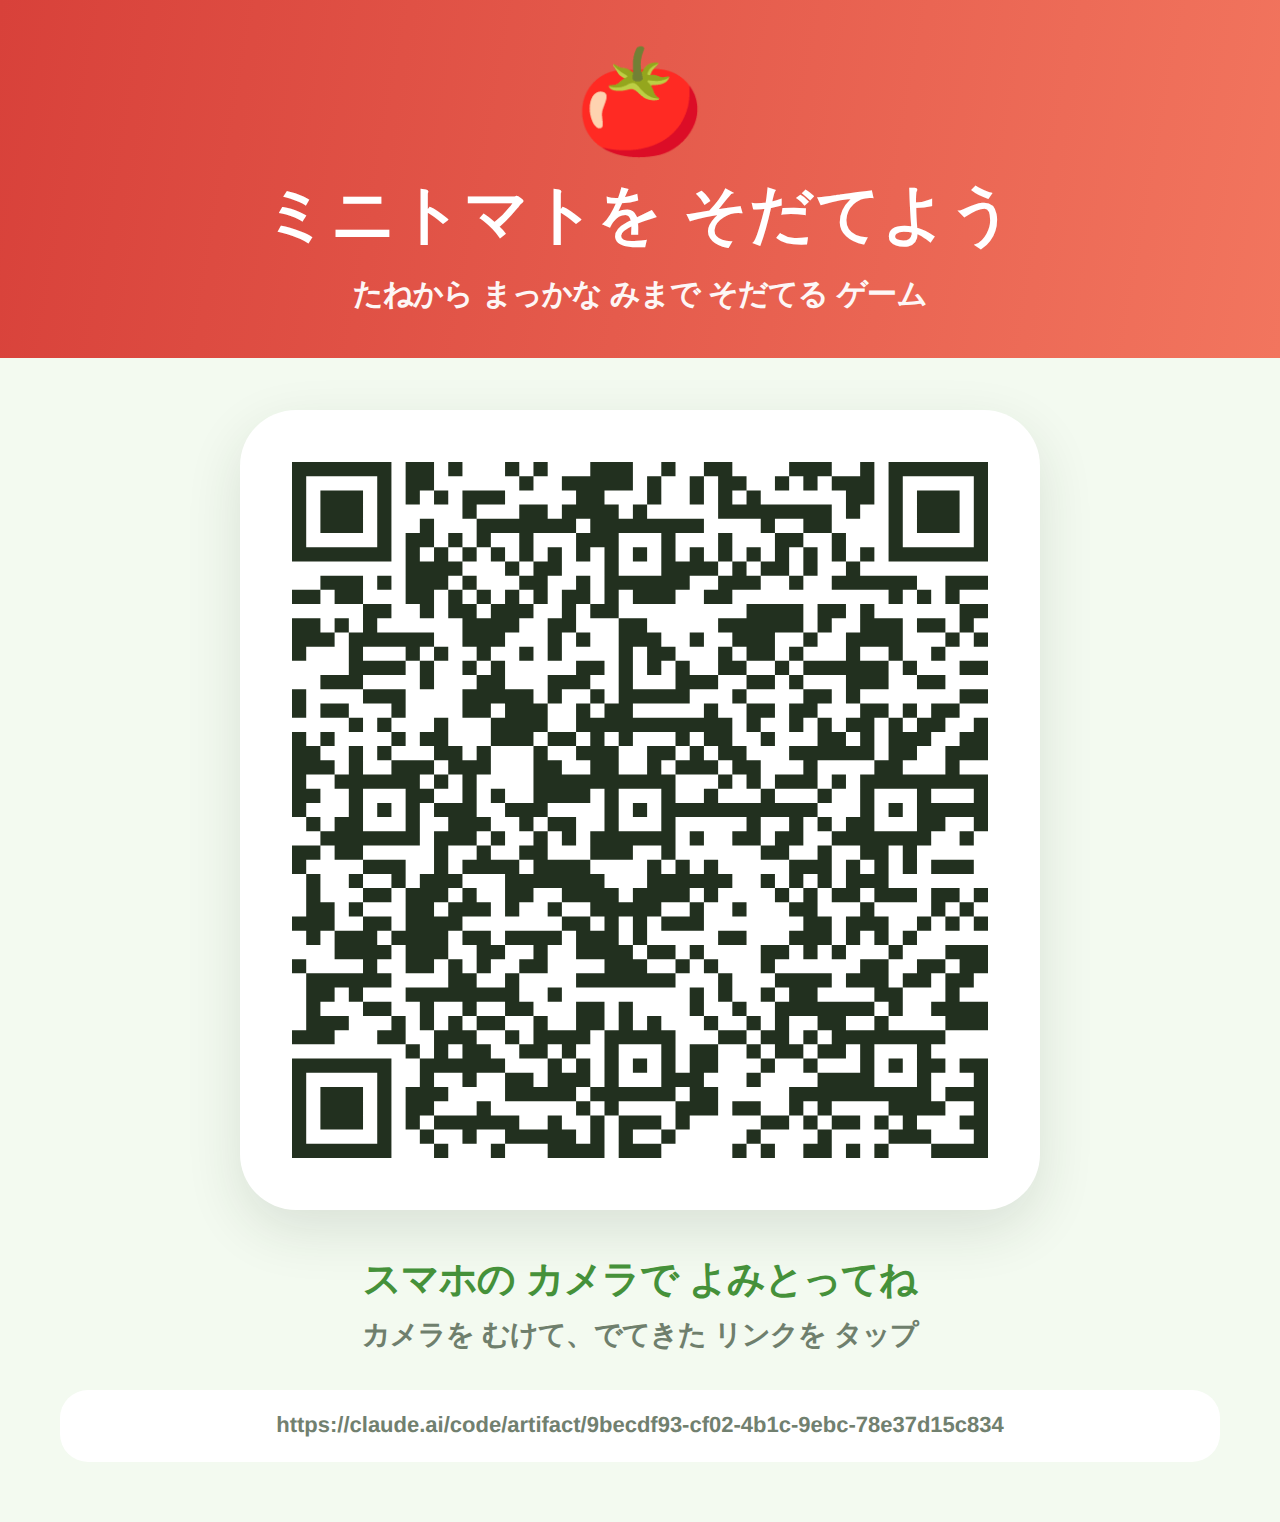
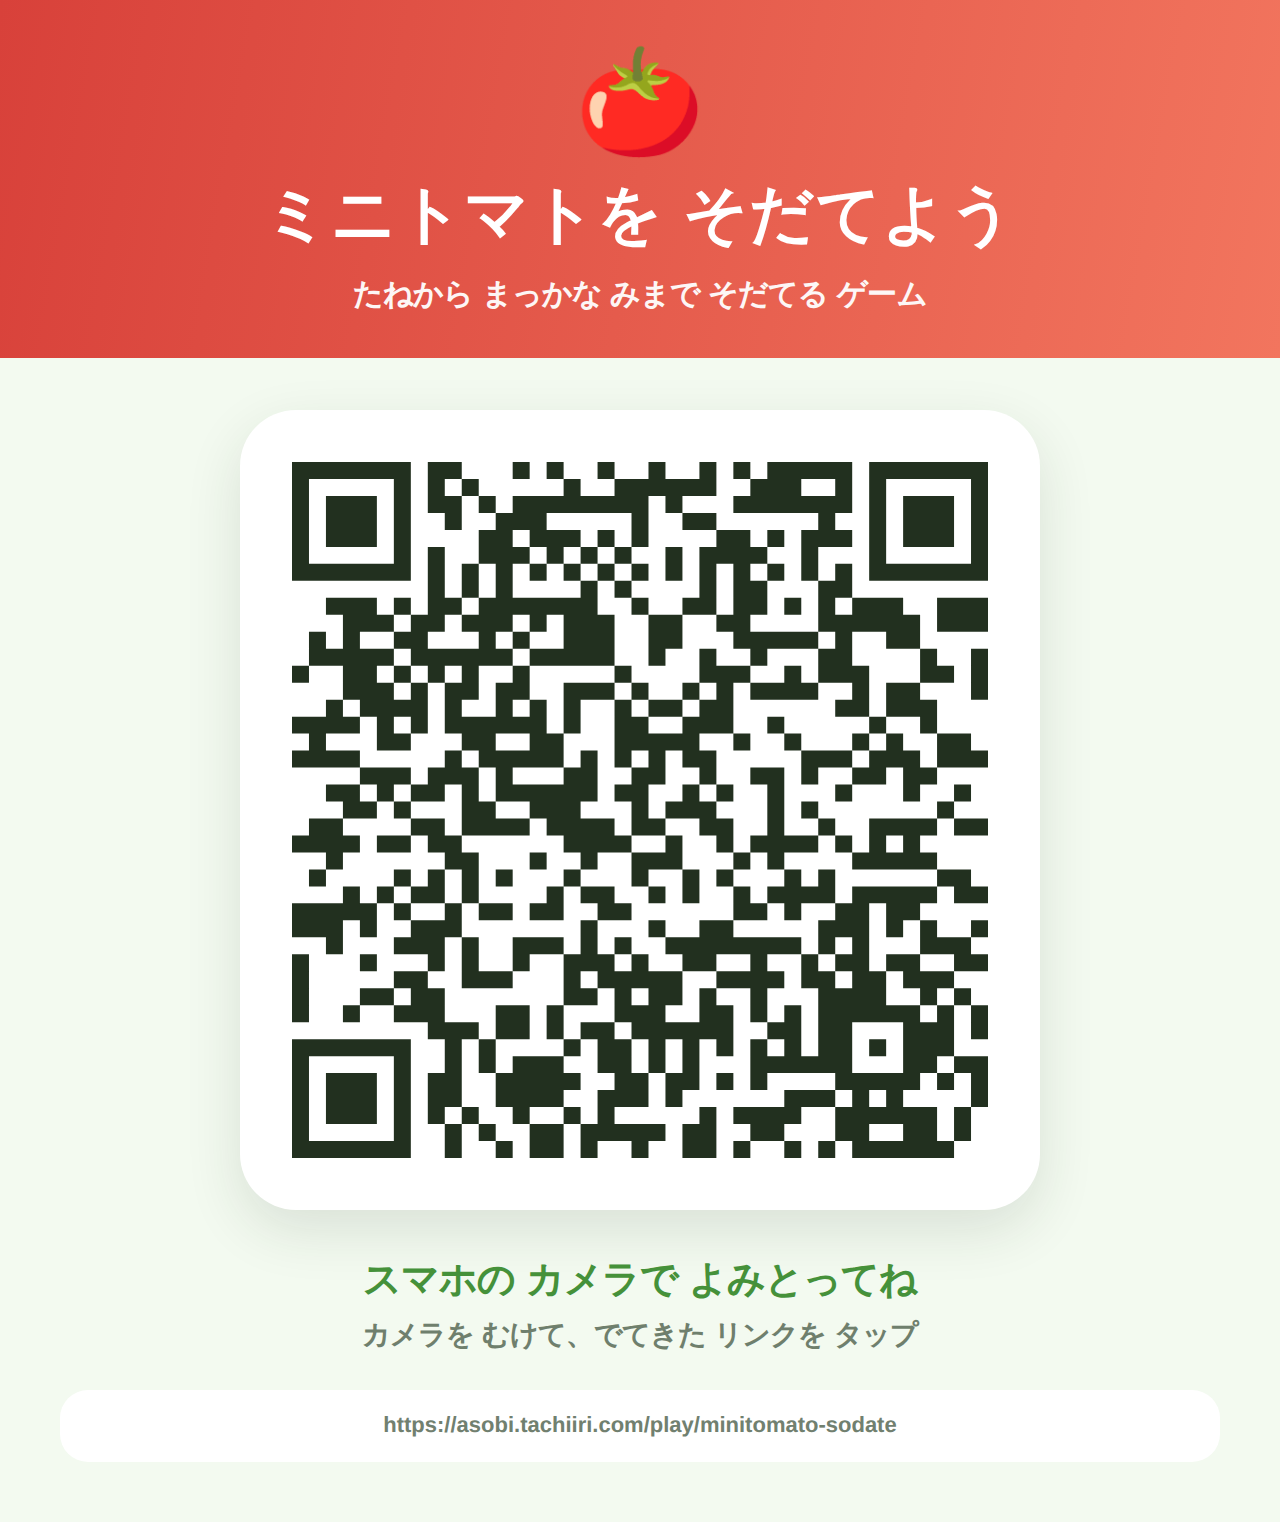
🔧 QR の さきを あそびばの ゲームの ページに なおした
まえの QR は アーティファクトの URL を さして いたが、あそびばに
おいて ある ゲームの ページが ただしい さき だった。

  https://asobi.tachiiri.com/play/minitomato-sodate

つくりなおした あと、がぞうを じっさいに よみとって URL が
いっちする ことを たしかめた。

Claude-Session: https://claude.ai/code/session_019K8BL6Seh4N854PGnECjCW

Changed region(s): [[0.2188, 0.2779, 0.7812, 0.772], [0.2188, 0.9264, 0.7812, 0.9573]]

diff --git a/qr/minitomato-qr-card.html b/qr/minitomato-qr-card.html
@@ -23,7 +23,7 @@
     <h1>ミニトマトを そだてよう</h1>
     <p>たねから まっかな みまで そだてる ゲーム</p>
   </div>
-  <div class="qrbox"><svg viewBox="0 0 490 490" class="segno"><path transform="scale(10)" class="qrline" stroke="#22301f" d="M0 0.5h7m1 0h2m1 0h1m3 0h1m1 0h1m3 0h3m2 0h1m2 0h2m4 0h3m2 0h1m1 0h7m-49 1h1m5 0h1m1 0h2m6 0h1m2 0h5m1 0h1m2 0h1m1 0h2m2 0h1m1 0h1m1 0h3m1 0h1m5 0h1m-49 1h1m1 0h3m1 0h1m1 0h1m1 0h1m1 0h3m5 0h2m3 0h1m2 0h1m1 0h1m1 0h1m6 0h2m1 0h1m1 0h3m1 0h1m-49 1h1m1 0h3m1 0h1m5 0h1m3 0h2m1 0h4m1 0h1m5 0h8m1 0h1m2 0h1m1 0h3m1 0h1m-49 1h1m1 0h3m1 0h1m2 0h1m3 0h7m1 0h8m4 0h1m2 0h2m4 0h1m1 0h3m1 0h1m-49 1h1m5 0h1m1 0h2m1 0h1m1 0h1m2 0h1m3 0h3m3 0h1m3 0h1m3 0h2m2 0h1m3 0h1m5 0h1m-49 1h7m1 0h1m1 0h1m1 0h1m1 0h1m1 0h1m1 0h1m1 0h1m1 0h1m1 0h1m1 0h1m1 0h1m1 0h1m1 0h1m1 0h1m1 0h1m1 0h1m1 0h1m1 0h7m-41 1h4m3 0h1m1 0h2m3 0h1m3 0h4m1 0h1m1 0h2m1 0h1m2 0h1m-38 1h3m1 0h1m1 0h3m1 0h1m3 0h2m2 0h1m1 0h6m2 0h3m2 0h1m2 0h6m2 0h3m-49 1h2m1 0h2m3 0h2m1 0h1m1 0h1m1 0h1m1 0h1m1 0h2m1 0h1m1 0h3m2 0h2m11 0h1m1 0h1m1 0h1m-42 1h2m2 0h1m1 0h2m1 0h3m2 0h1m1 0h2m9 0h4m1 0h2m1 0h1m6 0h2m-49 1h2m1 0h1m1 0h1m6 0h4m2 0h2m3 0h2m5 0h6m1 0h1m2 0h3m1 0h2m1 0h1m-48 1h3m1 0h6m2 0h3m3 0h1m1 0h1m2 0h3m2 0h1m2 0h3m2 0h1m2 0h4m3 0h1m1 0h1m-49 1h1m3 0h1m3 0h1m1 0h1m2 0h1m2 0h1m1 0h1m4 0h1m1 0h2m3 0h1m1 0h2m1 0h1m3 0h1m2 0h1m2 0h1m-42 1h4m1 0h1m2 0h1m1 0h1m5 0h2m1 0h1m1 0h1m1 0h1m2 0h2m2 0h1m1 0h6m1 0h1m3 0h2m-47 1h3m4 0h1m3 0h2m3 0h3m2 0h1m3 0h3m2 0h2m1 0h1m3 0h3m2 0h2m-46 1h1m4 0h3m4 0h5m1 0h1m2 0h1m1 0h5m3 0h1m4 0h2m1 0h1m7 0h2m-49 1h1m1 0h2m3 0h1m4 0h2m1 0h3m2 0h1m1 0h2m5 0h1m2 0h2m1 0h2m3 0h2m1 0h1m1 0h2m-43 1h1m1 0h1m3 0h1m3 0h4m2 0h11m1 0h1m2 0h1m1 0h1m1 0h2m1 0h1m1 0h2m2 0h1m-49 1h1m1 0h1m4 0h1m1 0h2m3 0h3m1 0h2m1 0h1m1 0h1m3 0h1m1 0h2m2 0h1m3 0h2m1 0h1m1 0h3m2 0h2m-49 1h2m2 0h1m1 0h1m3 0h2m1 0h1m3 0h1m2 0h3m2 0h2m1 0h1m1 0h2m3 0h6m1 0h2m2 0h3m-49 1h3m1 0h1m2 0h3m1 0h3m3 0h2m2 0h2m2 0h1m1 0h3m1 0h2m3 0h1m4 0h2m3 0h1m-47 1h1m2 0h6m1 0h1m1 0h1m4 0h10m3 0h1m1 0h1m1 0h3m1 0h1m1 0h9m-49 1h2m2 0h1m3 0h2m2 0h1m1 0h1m2 0h4m1 0h1m3 0h1m2 0h1m3 0h1m3 0h1m2 0h1m3 0h1m3 0h1m-49 1h1m3 0h1m1 0h1m1 0h1m1 0h3m2 0h3m4 0h1m1 0h1m1 0h11m3 0h1m1 0h1m1 0h5m-48 1h1m1 0h2m3 0h1m2 0h3m2 0h1m1 0h2m2 0h1m3 0h1m5 0h1m2 0h1m1 0h1m1 0h2m3 0h2m2 0h1m-47 1h7m1 0h3m1 0h1m2 0h1m1 0h1m1 0h6m1 0h1m2 0h2m1 0h2m2 0h7m2 0h1m-48 1h2m1 0h2m5 0h1m2 0h1m2 0h2m3 0h3m2 0h1m6 0h2m2 0h1m2 0h2m1 0h1m-44 1h1m4 0h3m2 0h1m1 0h4m1 0h4m4 0h1m1 0h1m1 0h1m5 0h3m1 0h1m1 0h1m1 0h1m1 0h3m-47 1h1m2 0h1m2 0h1m1 0h3m3 0h7m3 0h6m2 0h1m1 0h1m1 0h1m1 0h3m-41 1h1m3 0h2m1 0h3m1 0h1m2 0h2m2 0h4m1 0h4m1 0h1m4 0h1m1 0h1m1 0h2m1 0h3m1 0h2m1 0h1m-48 1h2m1 0h1m3 0h2m1 0h3m1 0h1m2 0h1m2 0h5m2 0h1m2 0h1m3 0h2m3 0h1m4 0h1m1 0h1m-48 1h3m2 0h2m1 0h4m7 0h2m1 0h1m1 0h1m1 0h3m7 0h2m1 0h3m2 0h1m1 0h1m1 0h1m-48 1h1m1 0h3m1 0h4m1 0h2m1 0h4m1 0h3m1 0h1m5 0h2m3 0h3m1 0h1m1 0h1m1 0h1m-41 1h4m1 0h3m2 0h2m2 0h1m2 0h4m1 0h2m1 0h1m4 0h2m1 0h1m1 0h1m3 0h1m3 0h3m-49 1h1m4 0h1m2 0h2m1 0h1m1 0h1m2 0h2m4 0h3m2 0h1m1 0h1m3 0h1m6 0h2m2 0h2m1 0h2m-48 1h6m4 0h2m2 0h1m4 0h7m3 0h1m3 0h4m1 0h3m1 0h2m1 0h2m-47 1h2m1 0h1m3 0h8m2 0h1m9 0h1m1 0h1m2 0h1m1 0h2m4 0h2m3 0h1m-46 1h1m3 0h2m2 0h1m2 0h1m2 0h2m3 0h2m1 0h1m4 0h1m2 0h1m2 0h7m1 0h1m2 0h4m-48 1h3m3 0h1m1 0h1m1 0h1m1 0h2m2 0h1m2 0h2m1 0h1m1 0h1m3 0h1m2 0h1m1 0h1m2 0h2m2 0h1m4 0h3m-49 1h3m3 0h2m2 0h3m2 0h1m1 0h4m1 0h5m3 0h2m1 0h2m1 0h1m1 0h8m-38 1h1m1 0h1m1 0h2m2 0h2m1 0h1m2 0h1m3 0h1m1 0h2m2 0h1m1 0h2m1 0h2m1 0h1m3 0h1m-45 1h7m2 0h6m3 0h1m1 0h1m1 0h1m1 0h1m1 0h1m1 0h2m3 0h1m2 0h1m3 0h1m1 0h1m1 0h2m1 0h2m-49 1h1m5 0h1m2 0h1m2 0h1m2 0h2m1 0h3m1 0h1m3 0h3m3 0h1m4 0h4m3 0h1m3 0h1m-49 1h1m1 0h3m1 0h1m1 0h3m4 0h5m1 0h6m1 0h2m5 0h10m1 0h3m-49 1h1m1 0h3m1 0h1m1 0h2m3 0h1m6 0h1m1 0h1m4 0h3m1 0h2m2 0h1m1 0h1m4 0h4m2 0h1m-49 1h1m1 0h3m1 0h1m1 0h1m1 0h6m2 0h1m2 0h1m1 0h3m1 0h1m5 0h2m1 0h1m1 0h2m1 0h1m1 0h1m3 0h2m-49 1h1m5 0h1m2 0h1m2 0h1m2 0h5m1 0h1m1 0h1m2 0h1m5 0h1m4 0h1m4 0h3m3 0h1m-49 1h7m3 0h1m3 0h1m3 0h4m1 0h3m5 0h1m1 0h1m2 0h2m1 0h1m1 0h1m3 0h4"/></svg></div>
+  <div class="qrbox"><svg viewBox="0 0 410 410" class="segno"><path transform="scale(10)" class="qrline" stroke="#22301f" d="M0 0.5h7m1 0h2m3 0h1m1 0h1m2 0h1m2 0h1m2 0h1m1 0h1m1 0h5m1 0h7m-41 1h1m5 0h1m1 0h1m1 0h1m5 0h1m2 0h6m2 0h3m2 0h1m1 0h1m5 0h1m-41 1h1m1 0h3m1 0h1m1 0h2m1 0h1m1 0h8m1 0h1m3 0h7m1 0h1m1 0h3m1 0h1m-41 1h1m1 0h3m1 0h1m2 0h1m2 0h3m5 0h1m2 0h2m6 0h1m2 0h1m1 0h3m1 0h1m-41 1h1m1 0h3m1 0h1m4 0h2m1 0h3m1 0h1m1 0h1m4 0h2m1 0h1m1 0h3m1 0h1m1 0h3m1 0h1m-41 1h1m5 0h1m1 0h1m2 0h3m1 0h1m1 0h1m1 0h1m2 0h1m1 0h4m2 0h1m3 0h1m5 0h1m-41 1h7m1 0h1m1 0h1m1 0h1m1 0h1m1 0h1m1 0h1m1 0h1m1 0h1m1 0h1m1 0h1m1 0h1m1 0h1m1 0h1m1 0h7m-33 1h1m1 0h1m1 0h1m4 0h1m1 0h1m4 0h1m1 0h2m3 0h2m-31 1h3m1 0h1m1 0h2m1 0h7m2 0h1m2 0h2m1 0h2m1 0h1m1 0h1m1 0h3m2 0h3m-38 1h3m1 0h2m1 0h3m1 0h1m1 0h3m2 0h2m2 0h2m4 0h6m1 0h3m-40 1h1m1 0h1m2 0h2m3 0h1m1 0h1m2 0h3m2 0h2m3 0h5m1 0h1m2 0h2m-36 1h5m1 0h6m1 0h5m2 0h1m2 0h1m2 0h1m3 0h2m4 0h1m2 0h1m-41 1h1m2 0h2m1 0h1m1 0h1m1 0h1m2 0h1m5 0h1m4 0h3m2 0h1m1 0h3m3 0h2m1 0h1m-38 1h3m1 0h1m1 0h2m1 0h2m2 0h3m1 0h1m2 0h1m1 0h1m1 0h4m2 0h1m1 0h2m3 0h1m-39 1h1m1 0h4m1 0h1m2 0h1m1 0h1m1 0h1m2 0h1m1 0h2m1 0h2m6 0h2m1 0h3m-38 1h4m1 0h1m1 0h1m1 0h6m1 0h1m2 0h2m2 0h3m2 0h1m5 0h1m2 0h1m-37 1h1m3 0h2m3 0h2m2 0h2m3 0h5m2 0h1m2 0h1m3 0h1m1 0h1m2 0h2m-40 1h4m5 0h1m1 0h5m1 0h1m1 0h1m1 0h1m1 0h2m5 0h3m1 0h3m1 0h3m-37 1h3m1 0h3m1 0h1m3 0h2m2 0h2m2 0h1m2 0h2m1 0h1m2 0h2m1 0h2m-36 1h2m1 0h1m1 0h2m1 0h1m1 0h6m1 0h2m2 0h1m1 0h1m2 0h1m3 0h1m3 0h1m2 0h1m-37 1h2m1 0h1m3 0h2m2 0h3m3 0h1m1 0h3m3 0h1m1 0h1m7 0h1m-38 1h2m4 0h2m1 0h4m1 0h4m1 0h2m2 0h2m2 0h1m2 0h1m2 0h4m1 0h2m-41 1h4m1 0h2m1 0h2m6 0h4m2 0h1m2 0h1m1 0h4m1 0h1m1 0h1m1 0h1m-35 1h1m6 0h2m3 0h1m2 0h1m2 0h3m3 0h1m1 0h1m4 0h5m-37 1h1m4 0h1m1 0h1m1 0h1m1 0h1m3 0h1m3 0h1m2 0h1m1 0h1m3 0h1m1 0h1m6 0h2m-37 1h1m1 0h1m1 0h2m1 0h1m4 0h1m1 0h2m2 0h1m1 0h1m2 0h1m1 0h4m1 0h5m1 0h2m-41 1h5m1 0h1m2 0h1m1 0h2m1 0h2m2 0h2m6 0h2m1 0h1m2 0h2m1 0h2m-37 1h3m1 0h1m2 0h3m7 0h1m3 0h1m2 0h2m5 0h3m1 0h1m1 0h1m2 0h1m-39 1h1m3 0h3m1 0h1m2 0h3m1 0h1m1 0h1m2 0h8m1 0h1m1 0h1m3 0h3m-40 1h1m3 0h1m3 0h1m1 0h1m2 0h1m2 0h3m1 0h1m2 0h2m2 0h1m2 0h1m1 0h2m1 0h2m2 0h2m-41 1h1m5 0h2m2 0h3m3 0h1m1 0h5m2 0h4m1 0h2m1 0h2m1 0h3m-39 1h1m3 0h2m1 0h2m7 0h2m1 0h1m1 0h2m1 0h1m2 0h1m3 0h4m2 0h1m1 0h1m-40 1h1m2 0h1m2 0h3m3 0h2m1 0h1m3 0h3m2 0h2m1 0h1m1 0h1m1 0h6m1 0h1m1 0h1m-33 1h3m1 0h2m1 0h1m1 0h2m1 0h6m2 0h2m1 0h2m3 0h3m1 0h1m-41 1h7m2 0h1m1 0h1m4 0h1m1 0h2m1 0h1m1 0h1m1 0h1m1 0h1m1 0h1m1 0h2m1 0h1m1 0h3m-39 1h1m5 0h1m2 0h1m1 0h1m1 0h3m2 0h2m1 0h1m1 0h1m3 0h6m3 0h2m1 0h2m-41 1h1m1 0h3m1 0h1m1 0h2m2 0h5m2 0h2m1 0h2m1 0h1m1 0h1m4 0h5m1 0h1m1 0h1m-41 1h1m1 0h3m1 0h1m1 0h2m2 0h4m2 0h3m1 0h1m6 0h3m1 0h1m1 0h1m4 0h1m-41 1h1m1 0h3m1 0h1m1 0h1m1 0h1m2 0h1m2 0h1m1 0h1m5 0h1m1 0h4m2 0h6m1 0h1m-40 1h1m5 0h1m2 0h1m1 0h1m2 0h2m1 0h5m1 0h2m2 0h2m3 0h2m2 0h2m1 0h1m-40 1h7m2 0h1m2 0h1m1 0h2m1 0h1m2 0h1m2 0h2m1 0h1m2 0h1m1 0h1m1 0h6"/></svg></div>
   <div class="how">スマホの カメラで よみとってね<span>カメラを むけて、でてきた リンクを タップ</span></div>
-  <div class="url">https://claude.ai/code/artifact/9becdf93-cf02-4b1c-9ebc-78e37d15c834</div>
+  <div class="url">https://asobi.tachiiri.com/play/minitomato-sodate</div>
 </div></body></html>

diff --git a/qr/README.md b/qr/README.md
@@ -3,23 +3,13 @@
 `minitomato-qr.png` … ミニトマトのゲームを ひらく QR コード（いんさつ できる カード）
 `minitomato-qr-card.html` … その もとの ページ。ひらいて いんさつ しても いい
 
-## いま どこを さして いるか
+## さして いる さき
 
 ```
-https://claude.ai/code/artifact/9becdf93-cf02-4b1c-9ebc-78e37d15c834
+https://asobi.tachiiri.com/play/minitomato-sodate
 ```
 
-これは **アーティファクト**（claude.ai の ページ）。
-じぶんの スマホで、claude.ai に ログイン した じょうたい なら そのまま あそべる。
-ともだちに わたす ときは、アーティファクトの がめんの「共有」から
-リンクを ひらけるように してから わたす こと。
-
-## だれでも あそべる リンクに したい ときは
-
-1. `minitomato-simple.html` を main ブランチに いれる
-2. GitHub の Settings → Pages で、main ブランチを こうかいに する
-3. `https://i-tachiiri.github.io/tennis-game/minitomato-simple.html` が つかえるように なる
-4. その URL で QR を つくりなおす
+あそびばに おいてある ミニトマトの ゲーム。
 
 ## つくりなおしかた
 
@@ -28,5 +18,14 @@ pip install segno
 python3 -c "import segno; segno.make('<URL>', error='h').save('qr.png', scale=10, border=4)"
 ```
 
-`minitomato-qr-card.html` の QR（インライン SVG）と いちばん したの URL を
-さしかえて、ブラウザで ひらいて スクリーンショットを とる。
+`minitomato-qr-card.html` の なかの QR（インライン SVG）と、いちばん したの
+URL を さしかえて、ブラウザで ひらいて スクリーンショットを とる。
+
+## たしかめかた
+
+QR の なかみは、じっさいに よみとって たしかめる。
+
+```
+pip install opencv-python-headless
+python3 -c "import cv2; print(cv2.QRCodeDetector().detectAndDecode(cv2.imread('minitomato-qr.png'))[0])"
+```
